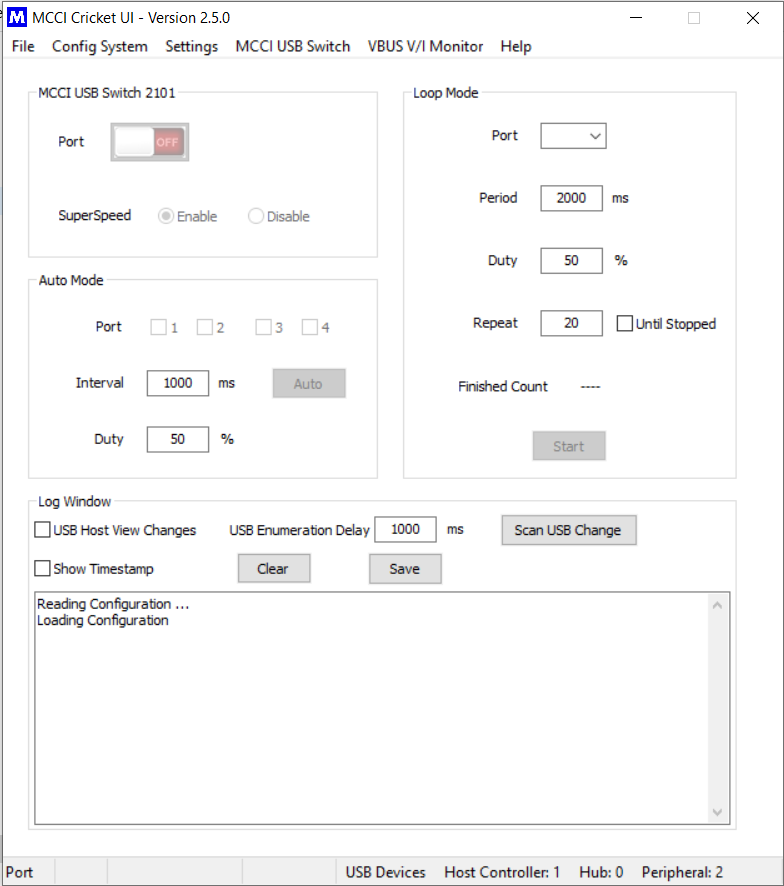
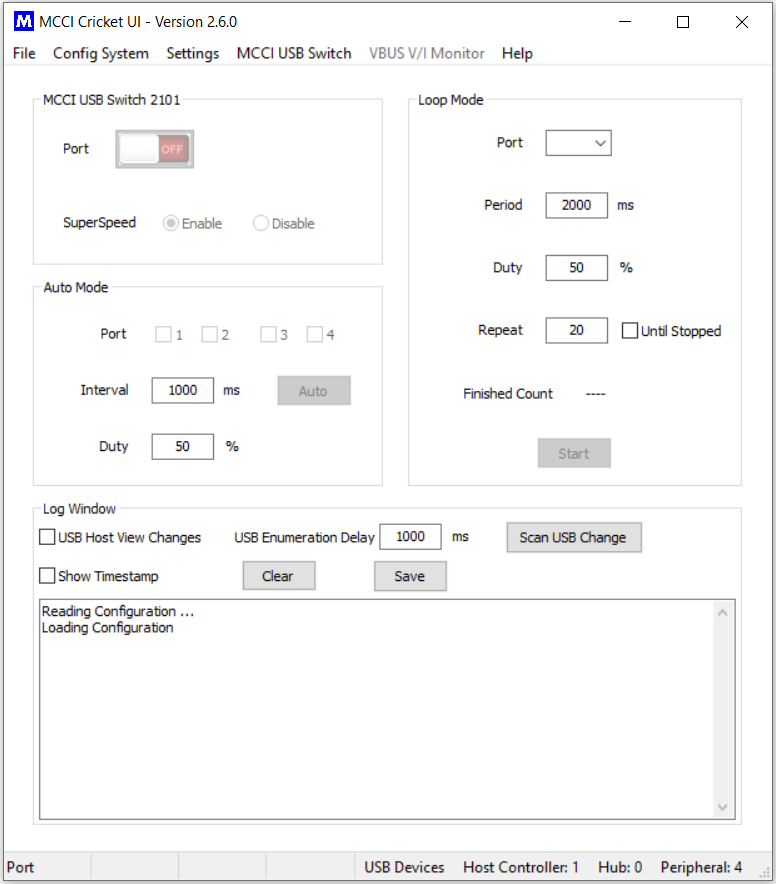
update Readme

diff --git a/README.md b/README.md
@@ -1,9 +1,9 @@
-# CricketUI
+# Cricket UI
 
 Simple standalone desktop application for handling MCCI USB Switches in a convenient way. it Supports MCCI USB Switch3141, 3201, 2301 and 2101 USB Connection Exerciser.
 
 <!-- /TOC -->
-[![Git release](https://img.shields.io/badge/release-v2.5.0-blue)](https://github.com/mcci-usb/COLLECTION-cricket-ui/releases/) [![Git commits](https://img.shields.io/badge/commits%20since%20v2.5.0-4-blue)](https://github.com/mcci-usb/COLLECTION-cricket-ui/compare/v2.5.0...master)
+[![Git release](https://img.shields.io/badge/release-v2.6.0-blue)](https://github.com/mcci-usb/COLLECTION-cricket-ui/releases/) [![Git commits](https://img.shields.io/badge/commits%20since%20v2.6.0-5-blue)](https://github.com/mcci-usb/COLLECTION-cricket-ui/compare/v2.6.0...master)
 <!-- markdown-shield -->
 
 
@@ -227,13 +227,13 @@ MCCI USB Switch 2301 Type-A USB 3.2 Gen2 Connection Exerciser
  ![Model2301](assets/Model2301.png)
 
  ## Release History
-- HEAD has the following changes.
+- v2.6.0 is a patch release.
   - Device search dialog goes blank until complete the search [#70](https://github.com/mcci-usb/Cricket/commit/7fe8957ab618dff0510e72076c24afb81a85fb51)
   - App not responding when other com port devices(Non MCCI USB Switchs) attached to the system USB & Slow search for switches [#59](https://github.com/mcci-usb/Cricket/commit/829d85818beb533114423fbdb848013c3c66eb0a) [#65](https://github.com/mcci-usb/Cricket/commit/829d85818beb533114423fbdb848013c3c66eb0a)
   - Minimizing and maximizing the application [#60](https://github.com/mcci-usb/Cricket/commit/f6bb6a8a79cf8ccf69931c288e1e417574cf8fe4)
   - Disable VBUS V/I monitor if switch doesn't support [#63](https://github.com/mcci-usb/Cricket/commit/2c569d5131f1f04fa3e802f67e04ded35b80b802)
   - misspelling in the log window instead of Switch it was spelled as Swicth [#61](https://github.com/mcci-usb/Cricket/commit/1344384596efdfd3288ef40bea38c8149b2039f6).
-- v2.5.0 is major release; it Contains the following changes
+- v2.5.0 is major release it Contains the following changes
   -	Feature added – Plotting of VBUS Volt and Current `VBUS V/I Plotting` [#18 #48 #52](https://github.com/mcci-usb/Cricket/commit/eb30f3b4a2e1da2c21db470315a8489b19d7b87d).
   - USB Tree view removed and merged with Logwindow `Replaced USB Tree view window to Log Window` [#24](https://github.com/mcci-usb/Cricket/issues/24).
   - Perform device Search in advance, Device searching automatically or manually seaching the device `USB Switch Scanning` [#30](https://github.com/mcci-usb/Cricket/issues/30).

diff --git a/VERSION.md b/VERSION.md
@@ -1,1 +1,1 @@
-2.5.0
+2.6.0
